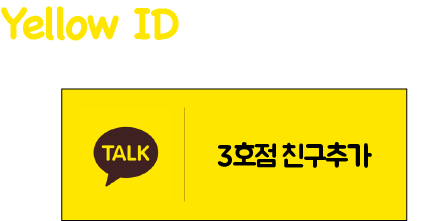
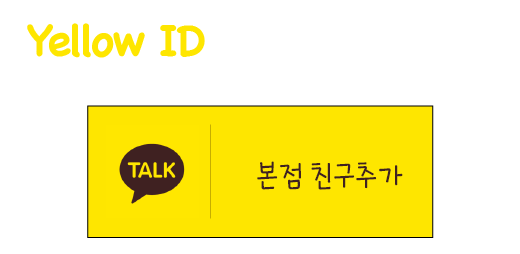
bug fix

Changed region(s): [[0.1185, 0.3801, 0.9476, 1.0], [0.0, 0.0271, 0.4146, 0.2443], [0.2073, 0.543, 0.385, 0.8416]]

diff --git a/resources/views/CustomerCenter/Consult/index.blade.php b/resources/views/CustomerCenter/Consult/index.blade.php
@@ -1,6 +1,9 @@
 @extends('layouts.app_dashboard')
 @section('style')
     <style>
+        .consult {
+            margin: 0 50px;
+        }
         .bodywork-kakao {
             display: flex;
             justify-content: space-between;
@@ -15,21 +18,20 @@
         }
 
         @media (orientation: portrait) {
+            .consult {
+                margin: 0 25px;
+            }
+
             .cover-image {
                 height: 250px;
             }
 
             .bodywork-kakao {
-                display: flex;
-                justify-content: space-between;
-                margin: 0 50px;
+                display: block;
+                margin: 0 25px;
                 margin-bottom: 50px;
                 padding: 5px;
                 background-color: #3f2121;
-            }
-
-            .bodywork-kakao div {
-                margin: 0 5px;
             }
         }
     </style>
@@ -37,7 +39,7 @@
 @section('content')
     <h3>실시간 상담</h3>
     <hr>
-    <div style="margin: 0 50px;">
+    <div class="consult">
         <img src="/img/consult1.png" width="100%">
     </div>
     <div class="bodywork-kakao">
